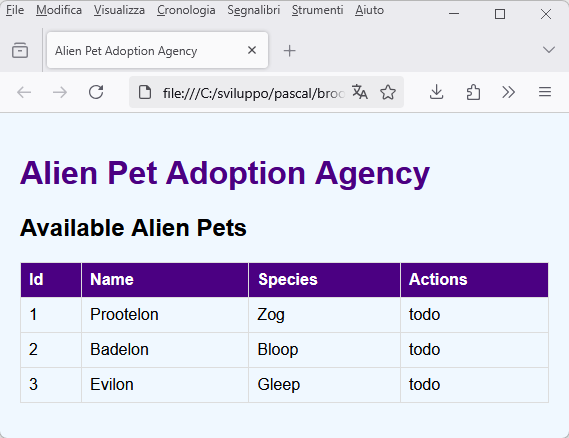
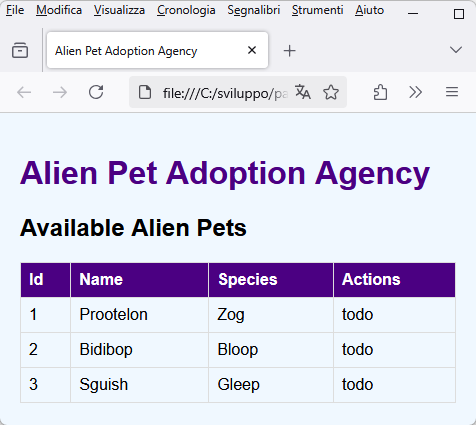
* wip

diff --git a/tutorial2/html/index.html b/tutorial2/html/index.html
@@ -42,7 +42,6 @@
 </head>
 
 <body>
-
     <h1>Alien Pet Adoption Agency</h1>
 
     <h2>Add a New Alien Pet</h2>
@@ -52,8 +51,18 @@
             <option value="">Select Species</option>
             <!-- Species options will be dynamically added here -->
         </select>
-        <textarea id="petDescription" placeholder="Description" required></textarea>
         <button type="submit">Add Pet</button>
+    </form>
+
+    <h2>Edit an Existing Alien Pet</h2>
+    <form id="updatePetForm">
+        <input type="text" id="petIdForUpdate" readonly="true">
+        <input type="text" id="petNameForUpdate" placeholder="Pet Name" required>
+        <select id="petSpeciesForUpdate" required>
+            <option value="">Select Species</option>
+            <!-- Species options will be dynamically added here -->
+        </select>
+        <button type="submit">Update Pet</button>
     </form>
 
     <h2>Available Alien Pets</h2>
@@ -74,7 +83,6 @@
     <script>
         const apiUrl = "https://localhost";
 
-
         function displayPets(petsList) {
             const petList = document.getElementById('petList').getElementsByTagName('tbody')[0];
             petList.innerHTML = ''; // Clear existing pets
@@ -84,37 +92,51 @@
                 row.insertCell(1).innerText = pet.name;
                 row.insertCell(2).innerText = pet.species;
                 const actionsCell = row.insertCell(3);
-                actionsCell.innerHTML = `<button onclick="editPet(${pet.id})">Edit</button>
+                actionsCell.innerHTML = `<button onclick="editPet(${pet.id}, '${pet.name}', '${pet.species}')">Edit</button>
                                          <button onclick="deletePet(${pet.id})">Delete</button>`;
             });
         }
 
-        // Function to add a new pet
-        document.getElementById('addPetForm').addEventListener('submit', function (event) {
-            event.preventDefault();
-            const newPet = {
-                name: document.getElementById('petName').value,
-                species: document.getElementById('petSpecies').value,
-                description: document.getElementById('petDescription').value
-            };
-            pets.push(newPet);
-            displayPets();
-            this.reset(); // Clear the form
-        });
 
-        // Function to delete a pet
-        function deletePet(index) {
-            pets.splice(index, 1);
-            displayPets();
+
+        async function deletePet(id) {
+            try {
+                const response = await fetch(apiUrl + "/alienpet/" + id, { method: 'DELETE'});
+                if (!response.ok) {
+                    throw new Error('Network response was not ok');
+                }
+                console.log('Pet deleted:', id);
+                fetchPets(); // Refresh the pet list after adding
+            } catch (error) {
+                console.error('Error deleting pet:', error);
+            }
         }
 
-        // Function to edit a pet
-        function editPet(index) {
-            const pet = pets[index];
-            document.getElementById('petName').value = pet.name;
-            document.getElementById('petSpecies').value = pet.species;
-            document.getElementById('petDescription').value = pet.description;
-            deletePet(index); // Remove the pet from the list for editing
+        async function putUpdatedPet(updatedPet) {
+            try {
+                const response = await fetch(apiUrl + "/alienpet", {
+                    method: 'PUT',
+                    headers: {
+                        'Content-Type': 'application/json'
+                    },
+                    body: JSON.stringify(updatedPet)
+                });
+                if (!response.ok) {
+                    throw new Error('Network response was not ok');
+                }
+                const result = await response.json();
+                console.log('Pet updated:', result);
+                fetchPets(); // Refresh the pet list after adding
+            } catch (error) {
+                console.error('Error updating pet:', error);
+            }
+        }
+
+
+        function editPet(id, name, species) {
+            document.getElementById('petIdForUpdate').value = id;
+            document.getElementById('petNameForUpdate').value = name;
+            document.getElementById('petSpeciesForUpdate').value = species;
         }
 
         async function fetchSpecies() {
@@ -130,15 +152,21 @@
             }
         }
 
-        // Function to populate the species dropdown
         function populateSpeciesDropdown(species) {
             const speciesDropdown = document.getElementById('petSpecies');
+            const speciesDropdownForUpdate = document.getElementById('petSpeciesForUpdate');
             species.forEach(speciesItem => {
                 const option = document.createElement('option');
                 option.value = speciesItem;
                 option.textContent = speciesItem;
                 speciesDropdown.appendChild(option);
+
+                const optionForUpdate = document.createElement('option');
+                optionForUpdate.value = speciesItem;
+                optionForUpdate.textContent = speciesItem;
+                speciesDropdownForUpdate.appendChild(optionForUpdate);
             });
+
         }
 
         async function fetchPets() {
@@ -154,7 +182,6 @@
             }
         }
 
-        // Function to post a new pet
         async function postNewPet(newPet) {
             try {
                 const response = await fetch(apiUrl + "/alienpet", {
@@ -175,15 +202,25 @@
             }
         }
 
-        // Function to add a new pet
         document.getElementById('addPetForm').addEventListener('submit', function (event) {
             event.preventDefault();
             const newPet = {
+                id: 0,
                 name: document.getElementById('petName').value,
-                species: document.getElementById('petSpecies').value,
-                description: document.getElementById('petDescription').value
+                species: document.getElementById('petSpecies').value
             };
-            postNewPet(newPet); // Call the new function to post the pet
+            postNewPet(newPet);
+            this.reset(); // Clear the form
+        });
+
+        document.getElementById('updatePetForm').addEventListener('submit', function (event) {
+            event.preventDefault();
+            const updatedPet = {
+                id: document.getElementById('petIdForUpdate').value,
+                name: document.getElementById('petNameForUpdate').value,
+                species: document.getElementById('petSpeciesForUpdate').value
+            };
+            putUpdatedPet(updatedPet);
             this.reset(); // Clear the form
         });
 

diff --git a/tutorial2/testo.md b/tutorial2/testo.md
@@ -265,22 +265,25 @@ Devi anche creare una classe per memorizzare un elenco di animaletti che utilizz
   strict private
     FList : TObjectList;
     FCriticalSection : TCriticalSection;
+    FLastId : integer;
     function Get(const aIndex : integer): TAlienPet;
   public
     constructor Create;
     destructor Destroy; override;
+    function ToJson: String; // convert the archive to a json string
 
-    procedure Add(const aAlienPet : TAlienPet);
-    function GetCopy(const aIndex : integer): TAlienPet;
-    function GetCopyById (const aId : integer) : TAlienPet;
-    procedure Delete (const aId : integer);
-    function Count : integer;
-  end; 
+    procedure Add(const aAlienPet : TAlienPet); // add a pet to the archive
+    procedure Delete (const aId : integer); // delete a pet from the archive by its own id
+    procedure Update(const aSourceAlienPet : TAlienPet); // update a pet in the archive
+    function GetNewId : integer; // generate a new unique id (for a newly created pet)
+  end;
+
+
 ```
 
 Ora riapri `modulealienpets` perchè è il momento di creare una nuova route per recuperare gli animaletti disponibili.
 
-Aggiungi sotto a *implementation* la definizione di una nuova variabile globale di tipo `TAlienPetsArchive`:
+Aggiungi sotto ad *implementation* la definizione di una nuova variabile globale di tipo `TAlienPetsArchive`:
 
 ``` pascal
 var
@@ -302,13 +305,13 @@ begin
 
   tmp := TAlienPet.Create;
   tmp.Id:= 2;
-  tmp.Name:= 'Badelon';
+  tmp.Name:= 'Bidibop';
   tmp.Species:= 'Bloop';
   pets.Add(tmp);
 
   tmp := TAlienPet.Create;
   tmp.Id:= 3;
-  tmp.Name:= 'Evilon';
+  tmp.Name:= 'Sguish';
   tmp.Species:= 'Gleep';
   pets.Add(tmp);
 end; 
@@ -405,7 +408,6 @@ Crea un file `index.html` fatto così:
 </head>
 
 <body>
-
     <h1>Alien Pet Adoption Agency</h1>
 
     <h2>Available Alien Pets</h2>
@@ -424,8 +426,7 @@ Crea un file `index.html` fatto così:
     </table>
 
     <script>
-        const apiUrl = "https://localhost";
-                
+        const apiUrl = "https://localhost";               
         
         function displayPets(petsList) {
             const petList = document.getElementById('petList').getElementsByTagName('tbody')[0];
@@ -438,7 +439,6 @@ Crea un file `index.html` fatto così:
                 row.insertCell(3).innerText = "todo";
             });
         }
-
 
         async function fetchPets() {
             try {
